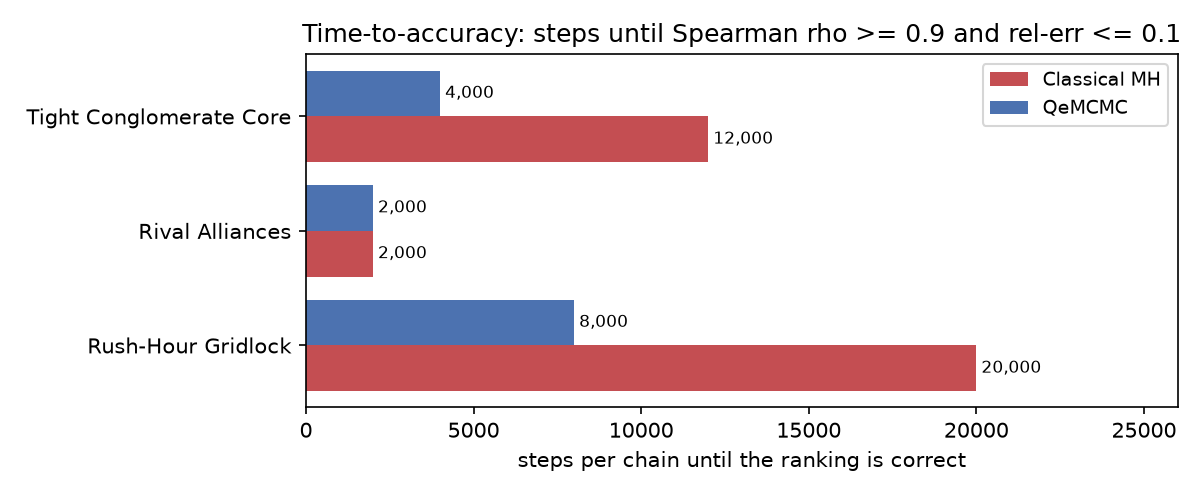
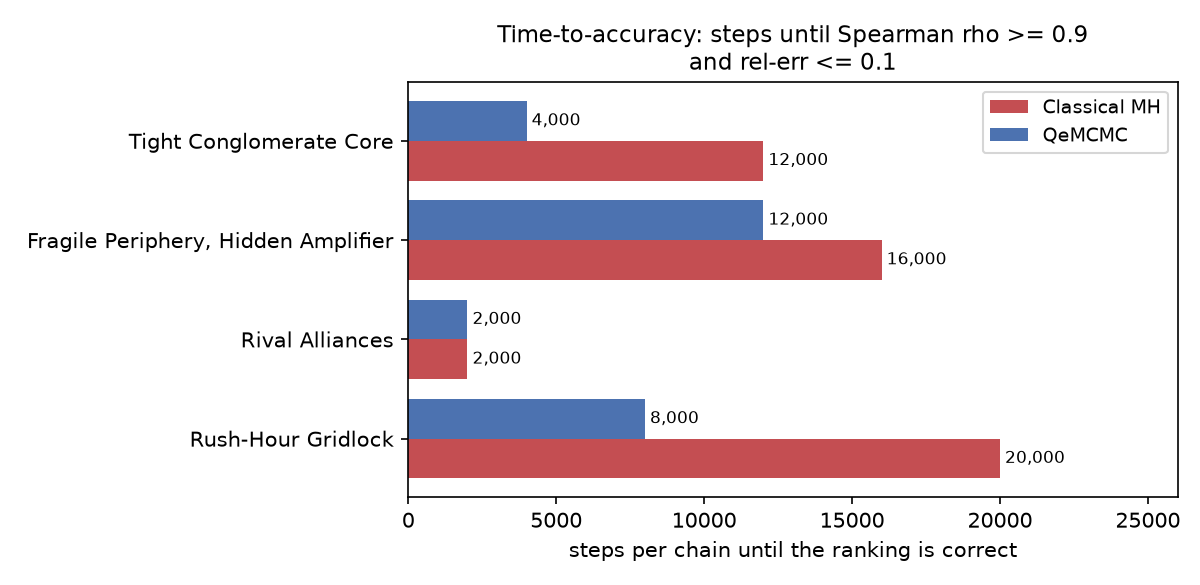
Add S2 hidden amplifier scenario to showcase
Render the story card's same-bailout-set note and wrap the
summary plot title so it fits.

Changed region(s): [[0.0, 0.0303, 0.9867, 0.9697]]

diff --git a/experiments/render_showcase.py b/experiments/render_showcase.py
@@ -215,7 +215,7 @@ def plot_summary(entries, path):
     ax.set_yticklabels(names)
     ax.invert_yaxis()
     ax.set_xlabel("steps per chain until the ranking is correct")
-    ax.set_title("Time-to-accuracy: steps until Spearman rho >= 0.9 and rel-err <= 0.1")
+    ax.set_title("Time-to-accuracy: steps until Spearman rho >= 0.9\nand rel-err <= 0.1", fontsize=11)
     all_steps = [s for s in q_steps + m_steps if s]
     ax.set_xlim(0, (max(all_steps) * 1.3) if all_steps else 1)
     for yi, (qv, mv) in enumerate(zip(q_steps, m_steps)):
@@ -268,6 +268,14 @@ def story_card(p, q_good, m_good):
         lines += [("**No time-to-accuracy gap here** -- both samplers rank correctly "
                    "from the shortest prefix. We report this scenario as a control, "
                    "not a win."), ""]
+    table = p["intervention"]["static_table"]
+    if "metro" in table and "quantum" in table:
+        same = all(table["metro"][k]["set"] == table["quantum"][k]["set"]
+                   for k in table["metro"])
+        if same:
+            lines += [("Both samplers chose the **same bailout sets at every budget** "
+                       "-- here the quantum advantage is in how *fast* the ranking "
+                       "became trustworthy, not in a different final decision."), ""]
     lines += [
         "### Cost, reported fairly",
         "",

diff --git a/experiments/showcase/STORY.md b/experiments/showcase/STORY.md
@@ -7,6 +7,7 @@ Each scenario is a named real-world situation where the network sits near a tipp
 | scenario | QeMCMC correct from | classical MH correct from |
 |---|---|---|
 | Tight Conglomerate Core | 4,000 | 12,000 |
+| Fragile Periphery, Hidden Amplifier | 12,000 | 16,000 |
 | Rival Alliances | 2,000 | 2,000 |
 | Rush-Hour Gridlock | 8,000 | 20,000 |
 
@@ -37,6 +38,35 @@ Setup: finance problem, n=12, 20,000 steps x 4 chains per arm.
 - The quantum arm runs on an unseeded simulator, so its numbers vary run-to-run; the ranking gap reported here is far larger than that run-to-run spread in the scenarios where it appears.
 - Prefix-truncated chains: within-run convergence, not independent-restart convergence.
 
+## Fragile Periphery, Hidden Amplifier (`s2_hidden_amplifier`)
+
+**A mid-tier bank quietly amplifies every shock**  The dangerous bank is not the biggest one: it sits in the middle of the network and multiplies whatever hits it. Vulnerability that only shows up under stress is exactly what a frozen sampler misses.
+
+Setup: finance problem, n=12, 20,000 steps x 4 chains per arm.
+
+### Time to correct ranking
+
+| arm | first correct prefix | full-length relerr | full-length rho |
+|---|---|---|---|
+| QeMCMC | 12,000 | 0.055 | +0.986 |
+| Classical MH | 16,000 | 0.075 | +0.916 |
+
+**QeMCMC ranked the bailout targets correctly at 12,000 steps; classical Metropolis needed 16,000.** That is a 1.3x iteration-budget gap.
+
+Both samplers chose the **same bailout sets at every budget** -- here the quantum advantage is in how *fast* the ranking became trustworthy, not in a different final decision.
+
+### Cost, reported fairly
+
+- Classical MH: 0.0102 ms/step, ESS/step 0.038, acceptance 0.03
+- QeMCMC: 66.2 ms/step (simulator), ESS/step 0.014, acceptance 0.29
+
+### Caveats
+
+- Convergence curves are prefix-truncated versions of the SAME chains (within-run convergence), not independent restarts -- each point uses fewer samples, and burn-in re-truncation is not modelled.
+- Wall-clock cost differs strongly between arms (ms/step and ESS/step are reported per scenario below); the headline is steps-to-correct-ranking, the sampler's iteration budget, not wall-clock seconds.
+- The quantum arm runs on an unseeded simulator, so its numbers vary run-to-run; the ranking gap reported here is far larger than that run-to-run spread in the scenarios where it appears.
+- Prefix-truncated chains: within-run convergence, not independent-restart convergence.
+
 ## Rival Alliances (`s3_rival_alliances`)
 
 **Two alliances whose guarantees cancel each other out**  Frustrated loops of guarantees mean no arrangement pleases everyone -- the energy landscape is rugged for every method. This is our honest control: here both samplers agree, and we say so.
@@ -51,6 +81,8 @@ Setup: finance problem, n=12, frustration=0.50, 20,000 steps x 4 chains per arm.
 | Classical MH | 2,000 | 0.039 | +1.000 |
 
 **No time-to-accuracy gap here** -- both samplers rank correctly from the shortest prefix. We report this scenario as a control, not a win.
+
+Both samplers chose the **same bailout sets at every budget** -- here the quantum advantage is in how *fast* the ranking became trustworthy, not in a different final decision.
 
 ### Cost, reported fairly
 
@@ -78,6 +110,8 @@ Setup: traffic problem, n=3, 20,000 steps x 4 chains per arm.
 | Classical MH | 20,000 | 0.067 | +0.967 |
 
 **QeMCMC ranked the bailout targets correctly at 8,000 steps; classical Metropolis needed 20,000.** That is a 2.5x iteration-budget gap.
+
+Both samplers chose the **same bailout sets at every budget** -- here the quantum advantage is in how *fast* the ranking became trustworthy, not in a different final decision.
 
 ### Cost, reported fairly
 
